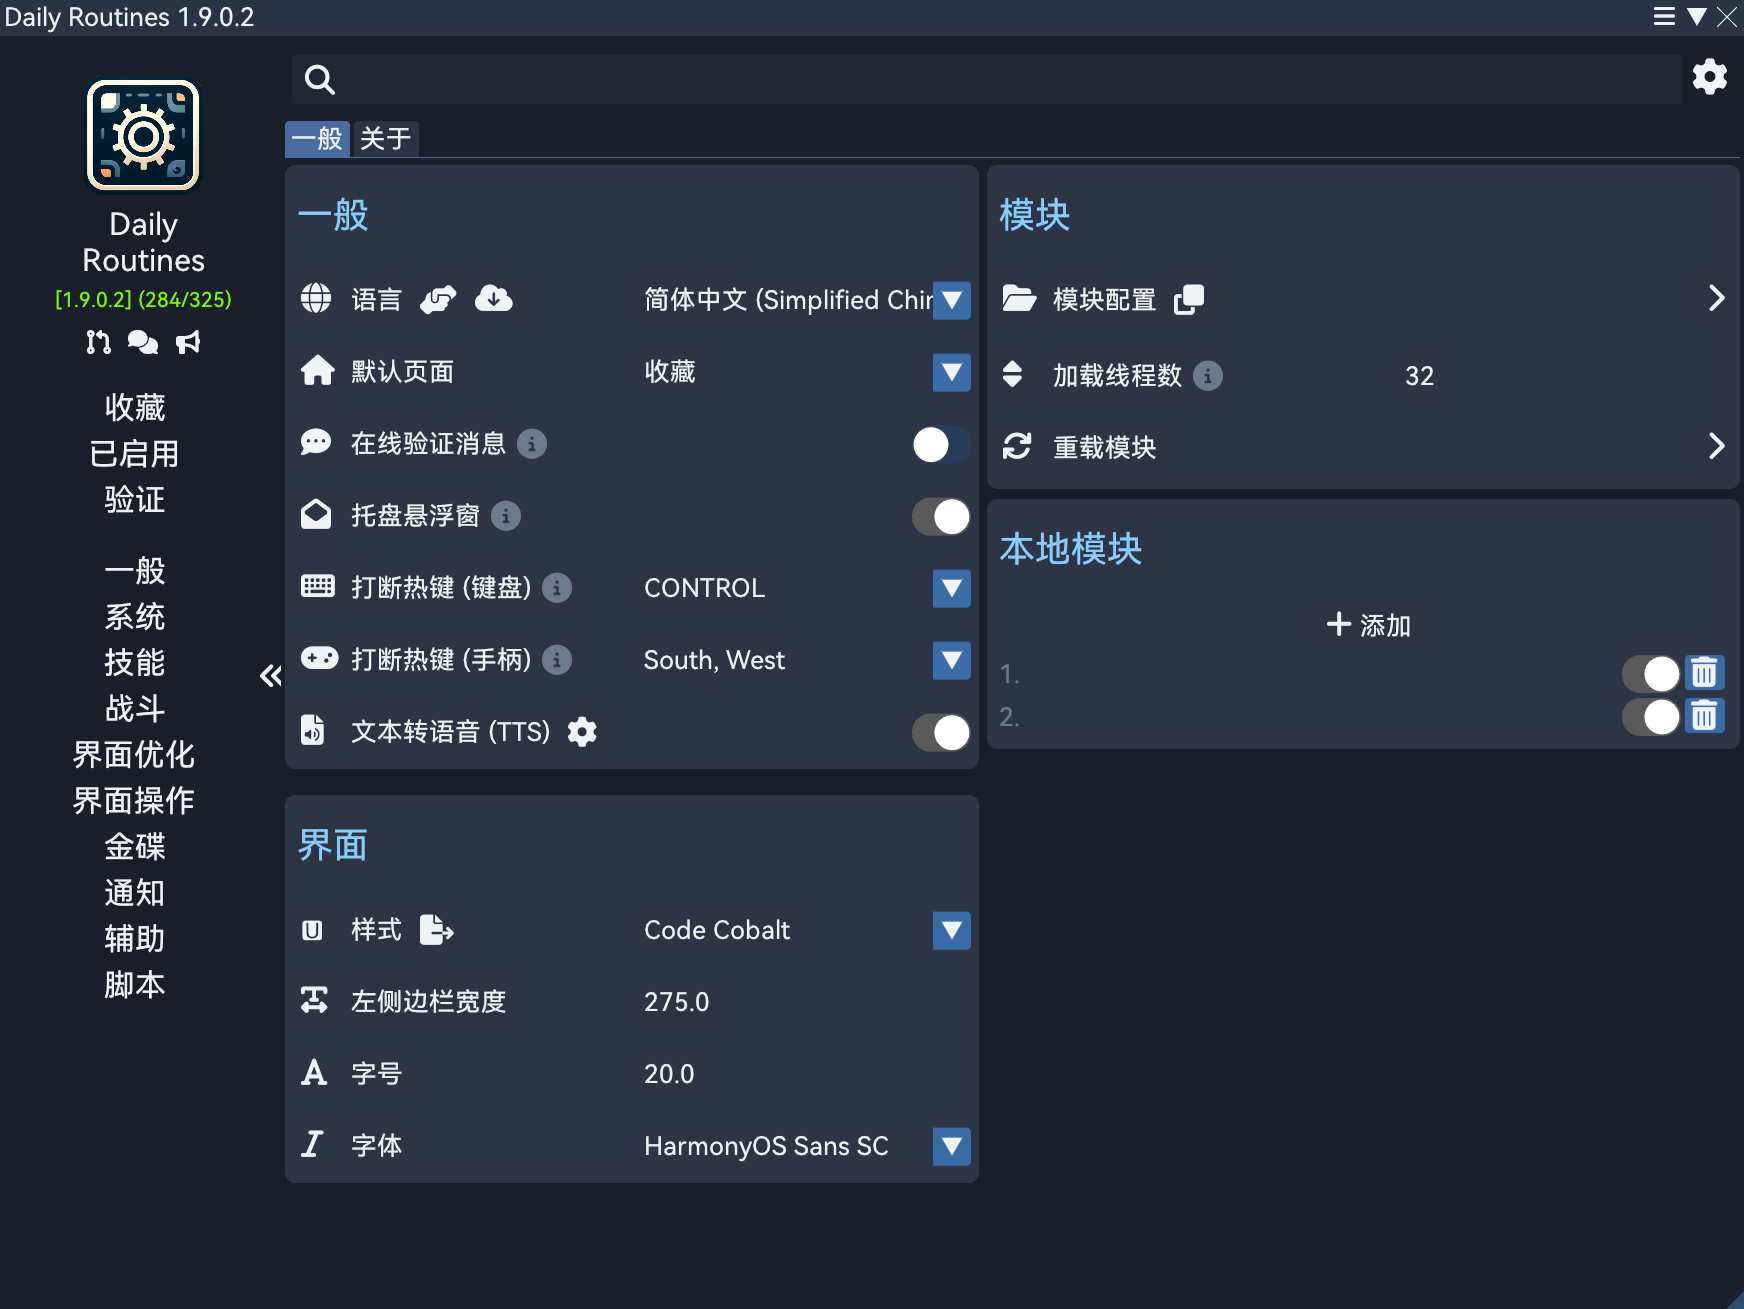
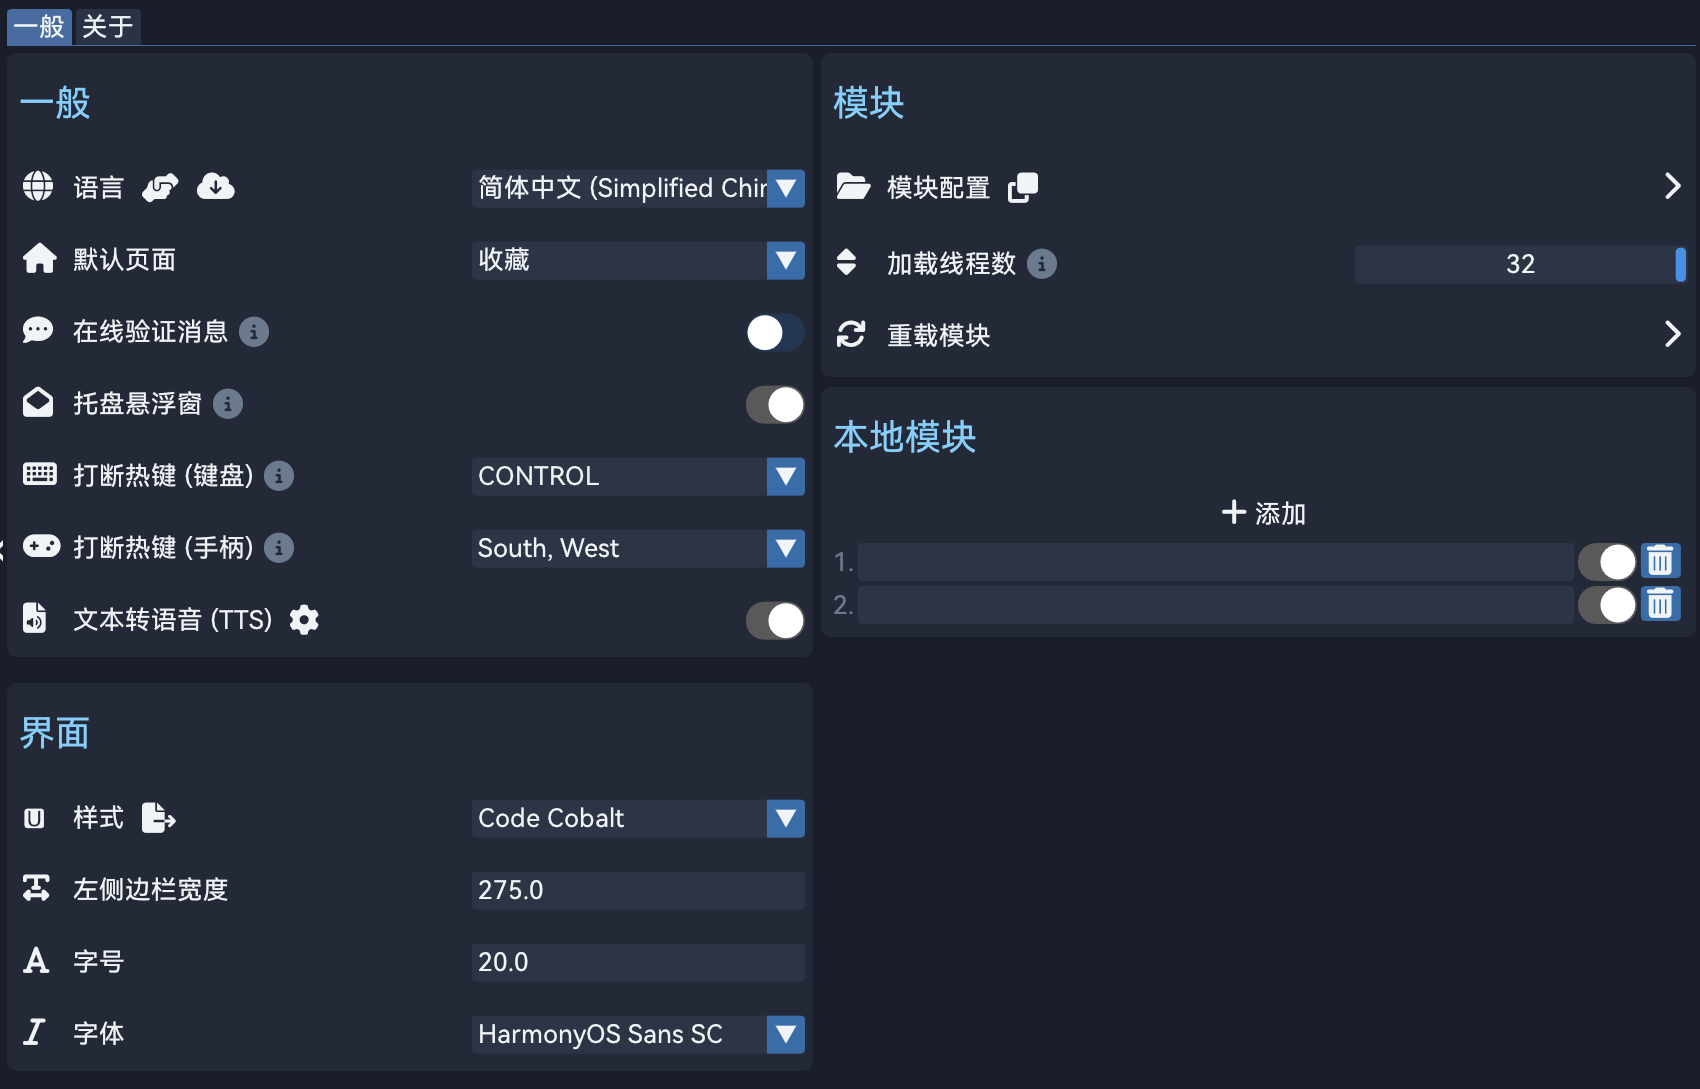
1.9.2.0

diff --git a/articles/更新日志-UpdateNote/v1.9.2.0.md b/articles/更新日志-UpdateNote/v1.9.2.0.md
@@ -8,9 +8,13 @@ tags: [更新笔记, 1.9.2.0]
 - 更新了插件所使用的部分依赖, 提升了稳定性
 - 跟随 FFXIVClientStructs 更新, 精简了部分代码
 - 优化了模块加载机制
-- 重写了设置界面外观
+- 重写了设置界面外观与动画效果
 
 ![Settings-UI](/assets/Changelog/1.9.2.0/Settings-UI.png)
+
+- 重写了模块配置界面卡片外观与动画效果
+- 重写了搜索框界面外观与动画效果
+- 重写了关于界面外观与动画效果
 
 ## 新增模块
 
@@ -21,6 +25,12 @@ tags: [更新笔记, 1.9.2.0]
 ![CompanyCreditExchangeMore](/assets/Changelog/1.9.2.0/CompanyCreditExchangeMore.png)
 
 ![CompanyCreditExchangeMore](/assets/Changelog/1.9.2.0/CompanyCreditExchangeMore-UI.png)
+
+### 纷争前线玩家地图雷达 [战斗]
+
+进入纷争前线后, 自动在游戏地图上显示并标注当前可接收到的周围所有玩家的位置信息
+
+![FrontlinePlayerRadar2D](/assets/Changelog/1.9.2.0/FrontlinePlayerRadar2D.png)
 
 ## 模块修改
 
@@ -39,3 +49,16 @@ tags: [更新笔记, 1.9.2.0]
 
 - 修复了当无待售物品时丢出的 `Sequence contains no element` 异常
 - 优化了整体窗口界面绘制性能消耗
+
+### 蜃景幻界新月岛助手 [辅助]
+
+- 修复了 `辅助职业一览` 界面右侧职业/特性展示部分无法交互的问题
+
+### 好友名单界面优化 [界面优化]
+
+- 修复了 `搜索设置` 界面元素错位的问题
+
+### 自动筹备稀有品 [界面操作]
+
+- 修复了模块界面元素错位的问题
+
